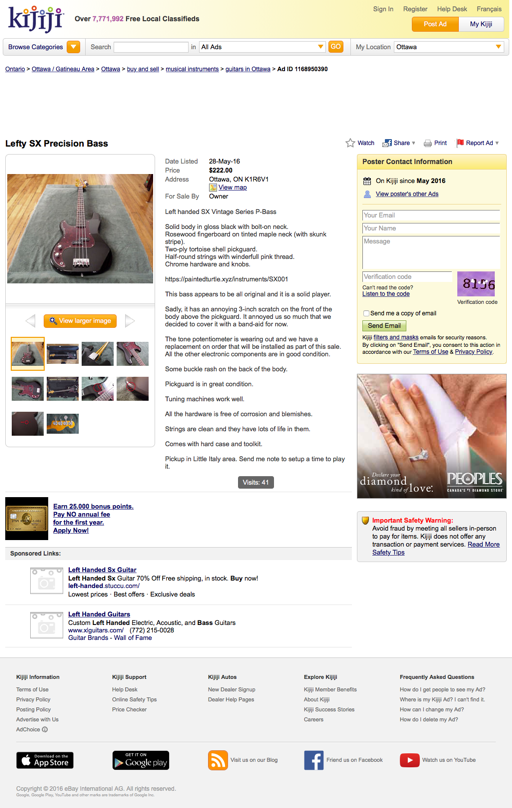
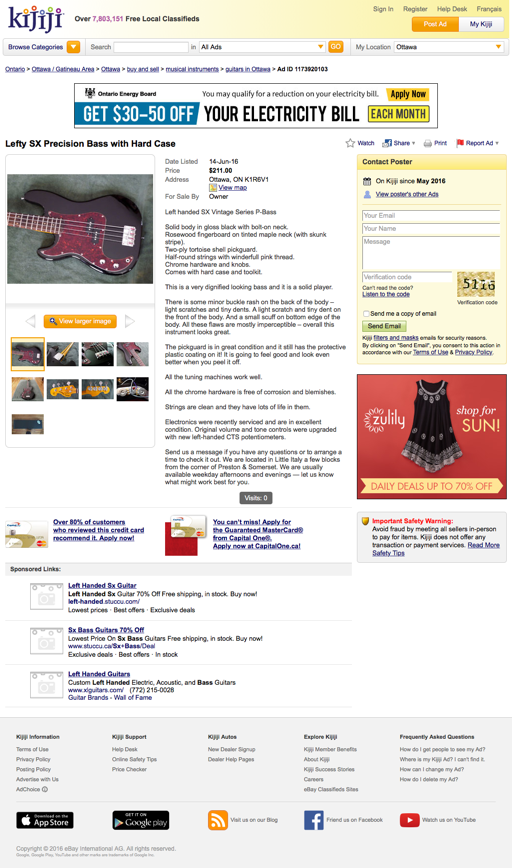
OK

diff --git a/instruments/SX001.html b/instruments/SX001.html
@@ -1,6 +1,6 @@
 <!DOCTYPE html>
 <meta charset="UTF-8">
-<title>Lefty SX Precision Bass Guitar with Hard Case in Ottawa $222 🐢</title>
+<title>Lefty SX Precision Bass Guitar with Hard Case in Ottawa $211 🐢</title>
 <link rel="stylesheet" href="/instruments/stylesheet.css" media="screen" charset="utf-8">
 <script src="/instruments/window.js" charset="utf-8"></script>
 <script src="/instruments/document.js" charset="utf-8"></script>
@@ -22,7 +22,7 @@
 
 <figure id="cover">
 <img src="/instruments/SX001/cover.jpg" alt="Black body, rosewood fingerboard, tortoise shell pickguard, chrome hardware, with hardshell case.">
-<div class="price" style="background:hsl(177, 66%, 29%);"><big><a>$</a><b>222</b></big><small><a>.</a><b>00</b></small></div>
+<div class="price" style="background:hsl(177, 66%, 29%);"><big><a>$</a><b>211</b></big><small><a>.</a><b>00</b></small></div>
 </figure>
 
 <div id="composition">
@@ -139,7 +139,7 @@ Three replacement Life brand band-aids.
 </figure>
 <figure>
 <h3>Follow it on Kijiji</h3>
-<a class="window" target="kijiji" href="http://www.kijiji.ca/v-guitar/ottawa/lefty-sx-precision-bass/1168950390?enableSearchNavigationFlag=true"><img src="/instruments/SX001/kijiji.png" alt="Lefty SX Precision Bass on Kijiji"></a>
+<a class="window" target="kijiji" href="http://www.kijiji.ca/v-view-details.html?adId=1173920103"><img src="/instruments/SX001/kijiji.png" alt="Lefty SX Precision Bass on Kijiji"></a>
 </figure>
 </div>
 </article>
@@ -147,10 +147,10 @@ Three replacement Life brand band-aids.
 <div id="comparison" class="windows">
 <h2>Compare it to other lefty bass guitars for sale in Ottawa</h2>
 <div class="layout">
-<a class="window" target="kijiji.1" href="https://www.kijiji.ca/v-guitar/ottawa/peavey-milestone-3-bass/1168442327" title="Scope out this lefty Peavey bass at Howard’s Pawn Shop"><img src="/instruments/SX001/kijiji.1.png"></a>
-<a class="window" target="kijiji.2" href="https://www.kijiji.ca/v-guitar/ottawa/cort-left-handed-bass-guitar/1157115537" title="Scope out this lefty Cort bass near the Ottawa Airport"><img src="/instruments/SX001/kijiji.2.png"></a>
-<a class="window" target="kijiji.3" href="https://www.kijiji.ca/v-guitar/ottawa/left-handed-bass-guitar:-peavy-millennium-bxp-mint-condition/1132500471" title="Checkout out this lefty Peavey on Bronson Avenue — she’s a looker!"><img src="/instruments/SX001/kijiji.3.png"></a>
-<a class="window" target="spacemanmusic" href="https://www.spacemanmusic.com/Guitars/Bass+Guitars/Wicked+Left-Handed+Bass" title="Checkout this Wicked lefty bass at Spaceman Music"><img src="/instruments/SX001/spacemanmusic.1.png"></a>
+<a class="window" target="kijiji.1" href="http://www.kijiji.ca/v-guitar/ottawa/peavey-milestone-3-bass/1173585749" title="Scope out this lefty Peavey bass at Howard’s Pawn Shop"><img src="/instruments/SX001/kijiji.1.png"></a>
+<a class="window" target="kijiji.2" href="http://www.kijiji.ca/v-guitar/ottawa/cort-left-handed-bass-guitar/1157115537" title="Scope out this lefty Cort bass near the Ottawa Airport"><img src="/instruments/SX001/kijiji.2.png"></a>
+<a class="window" target="kijiji.3" href="http://www.kijiji.ca/v-guitar/ottawa/left-handed-bass-guitar:-peavy-millennium-bxp-mint-condition/1132500471" title="Checkout out this lefty Peavey on Bronson Avenue — she’s a looker!"><img src="/instruments/SX001/kijiji.3.png"></a>
+<a class="window" target="spacemanmusic" href="http://www.spacemanmusic.com/Guitars/Bass+Guitars/Wicked+Left-Handed+Bass" title="Checkout this Wicked lefty bass at Spaceman Music"><img src="/instruments/SX001/spacemanmusic.1.png"></a>
 </div>
 </div>
 

diff --git a/instruments.html b/instruments.html
@@ -56,7 +56,7 @@ body.landscape #guitars article.forsale:nth-child(even):hover { transform:scale(
 <article class="forsale">
 <header>
 <div class="model">Lefty SX Precision Bass</div>
-<div class="price d3" style="background:hsl(177, 66%, 29%);"><big><a>$</a><b>222</b></big><small><a>.</a><b>00</b></small></div>
+<div class="price d3" style="background:hsl(177, 66%, 29%);"><big><a>$</a><b>211</b></big><small><a>.</a><b>00</b></small></div>
 </header>
 <img src="instruments/SX001/cover.jpg" alt="Black body, rosewood fingerboard, tortoise shell pickguard, chrome hardware, with hardshell case.">
 <a href="instruments/SX001"></a>
